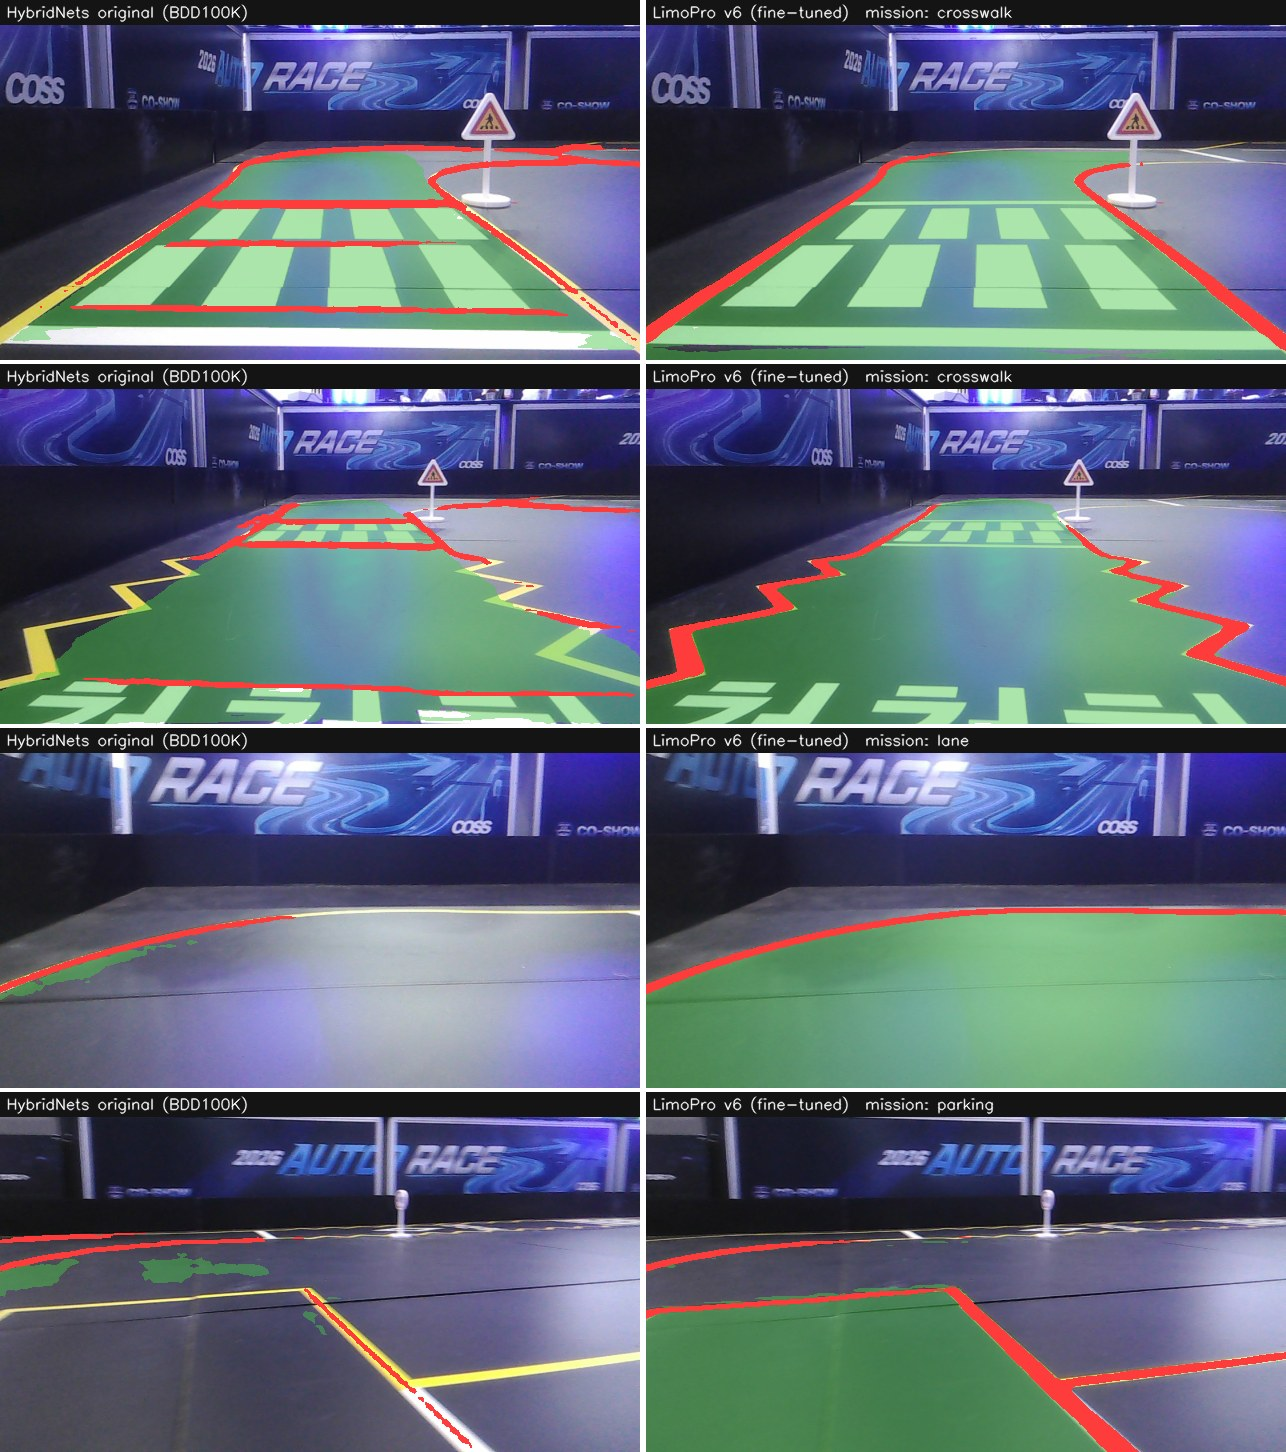
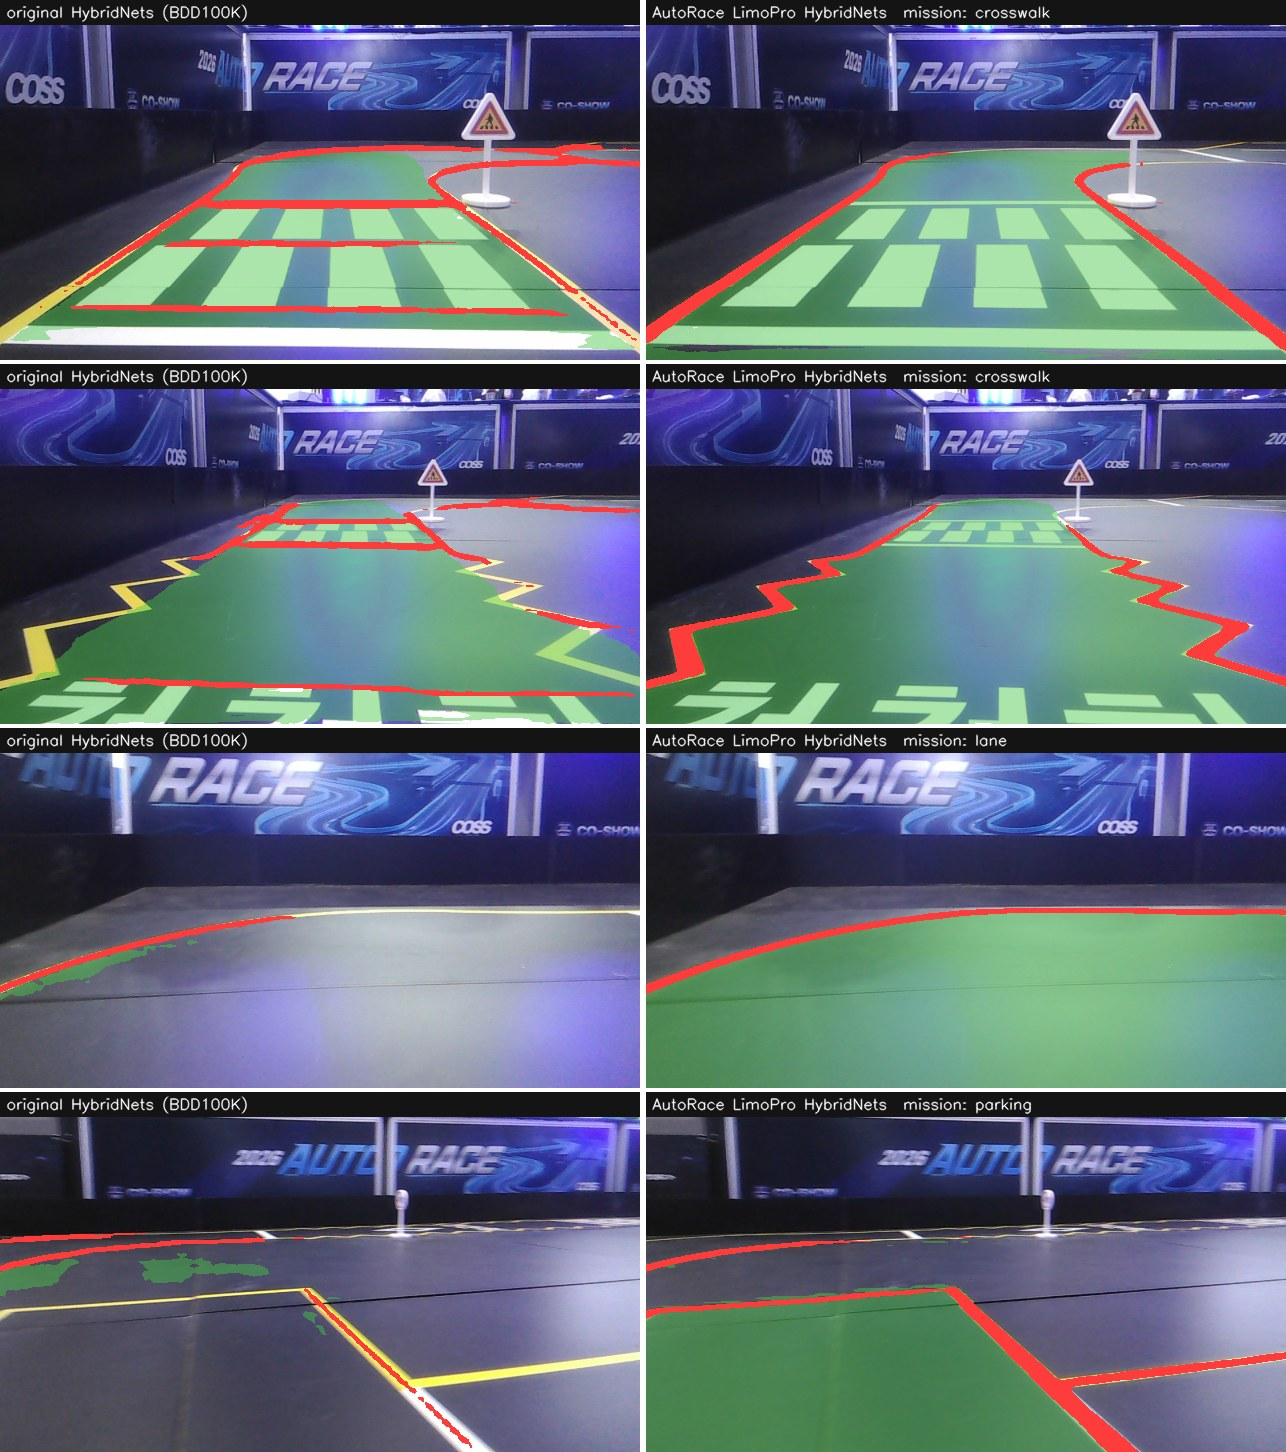
README·문서 정리: 비교 이름 바꾸기, 이모티콘 빼기, 대회장 정리 문서 다시 씀
- 비교 이름: original HybridNets vs AutoRace LimoPro HybridNets (그림 머리글도)
- README 이모티콘 뺌
- docs/VENUE_1118_STATUS.md: DA 주행 검사, 대회장 자동 라벨, v6 학습 결과 중심으로 다시 씀
- tools/mt_v4_data: 설명 문구 정리

diff --git a/tools/mt_v4_data/readme_media.py b/tools/mt_v4_data/readme_media.py
@@ -11,11 +11,11 @@
   task_da.jpg       주행가능영역(DA)만 2x2
   task_lane.jpg     차선 + 흰 가로선(정지선)만 2x2
   orig_vs_v6.gif    (--orig-weights 를 주면) 원본 HybridNets(BDD100K 공개 가중치) 와 v6 나란히, 전 코스. DA·차선만 비교
-  v5_vs_v6.gif      (--cmp-weights 를 주면) 신호등 진입 구간에서 v5 와 v6 나란히: v5 는 DA·차선이 꺼짐
+  compare_vs_v6.gif (--cmp-weights 를 주면) 신호등 진입 구간에서 다른 모델과 v6 나란히
 프레임 폴더: bag_fork_frames.py --all 로 뽑은 <frames-root>/<bag>/frames/*.jpg + frames.csv (name, t, mission_id)
 사용:
   <번들>/.venv/bin/python -I tools/mt_v4_data/readme_media.py --bundle <LimoPro_mt_v4> --weights <v6 best.pt> \
-      --frames-root <label_work/fullbag1118> --out docs/images/readme [--cmp-weights <v5 best.pt>]
+      --frames-root <label_work/fullbag1118> --out docs/images/readme [--orig-weights <hybridnets.pth>]
 """
 import argparse, csv, os, shutil, subprocess, sys, tempfile
 
@@ -177,16 +177,16 @@ lane_mids += [x for x in ["0", "5", "6", "7"] if x not in lane_mids][:4 - len(la
 save(grid([draw(r, da=False, det=False, foot=False) for r in pick(lane_mids)], 2), "task_lane.jpg")
 print("미션별 프레임:", {k: (v[0], v[1]["name"]) for k, v in picks.items()}, "| 차선 그림 미션:", lane_mids)
 
-# 4. v5 vs v6 (신호등 진입 구간): v5 는 이 bag 62.3 s 부터 DA·차선이 꺼짐
+# 4. 다른 모델 vs v6 (신호등 진입 구간)
 if a.cmp_weights:
     sel = [i for i, row in enumerate(rc) if 58.0 <= float(row["t"]) - t0c <= 69.0][::4]
     old = load(a.cmp_weights); O = infer(old, Rc, [rc[i] for i in sel]); seq = []
     for j, i in enumerate(sel):
         t = float(rc[i]["t"]) - t0c
-        l = draw(O[j], head=f"v5 (withdrawn)  t={t:4.1f}s  DA {O[j][1][180:].mean():.2f}", foot=False)
+        l = draw(O[j], head=f"compare  t={t:4.1f}s  DA {O[j][1][180:].mean():.2f}", foot=False)
         r = draw(C[i], head=f"{a.tag}  t={t:4.1f}s  DA {C[i][1][180:].mean():.2f}", foot=False)
         seq.append(np.hstack([l, np.full((360, 6, 3), 255, np.uint8), r]))
-    gif(seq, os.path.join(OUT, "v5_vs_v6.gif"), 8, 760)
+    gif(seq, os.path.join(OUT, "compare_vs_v6.gif"), 8, 760)
 
 # 5. 원본 HybridNets vs v6 (전 코스, DA·차선만). 원본은 BDD100K(실제 도로)용: road(도로 전체) / lane 두 클래스
 if a.orig_weights:
@@ -203,11 +203,11 @@ if a.orig_weights:
             with torch.no_grad():
                 seg = orig(x)[-1].argmax(1)[:, tm.PAD:-tm.PAD].cpu().numpy()   # 0 배경, 1 도로, 2 차선
             for q, (row, r) in enumerate(ch):
-                l = draw((r[0], seg[q] == 1, seg[q] == 2, None, []), sl=False, det=False, head="HybridNets original (BDD100K)", foot=False)
+                l = draw((r[0], seg[q] == 1, seg[q] == 2, None, []), sl=False, det=False, head="original HybridNets (BDD100K)", foot=False)
                 rr = draw(r, sl=False, det=False, head=head(row), foot=False)
                 out.append(np.hstack([l, np.full((360, 6, 3), 255, np.uint8), rr]))
         return out
-    seq = orig_pair([(rc[i], C[i]) for i in range(0, len(rc), 16)], lambda row: f"LimoPro {a.tag}  t={float(row['t']) - t0c:4.1f}s  mission: {mis(row)}")
+    seq = orig_pair([(rc[i], C[i]) for i in range(0, len(rc), 16)], lambda row: f"AutoRace LimoPro HybridNets  t={float(row['t']) - t0c:4.1f}s  mission: {mis(row)}")
     gif(seq, os.path.join(OUT, "orig_vs_v6.gif"), 8, 760)
-    still = orig_pair([(BYNAME[n][1], BYNAME[n][2]) for n in a.orig_frames], lambda row: f"LimoPro {a.tag} (fine-tuned)  mission: {mis(row)}")
+    still = orig_pair([(BYNAME[n][1], BYNAME[n][2]) for n in a.orig_frames], lambda row: f"AutoRace LimoPro HybridNets  mission: {mis(row)}")
     save(grid(still, 1), "orig_vs_v6.jpg")

diff --git a/docs/VENUE_1118_STATUS.md b/docs/VENUE_1118_STATUS.md
@@ -1,13 +1,11 @@
-# 11-18 대회장 정리: v5 DA 꺼짐 사고, v6 재학습, 분류기 v0.3, 학습 속도(`--compile`)
+# 11-18 대회장 정리: DA 주행 검사, 대회장 자동 라벨, v6 학습, 분류기 v0.3, 학습 속도(`--compile`)
 
-작성 2026-11-18 18:00. v6 학습은 아직 진행 중입니다(아래 5절). 끝나면 DA 주행 검사를 통과할 때만 `multitask-v6` 로 릴리즈합니다.
+작성 2026-11-18, 정리 2026-11-19.
 
 ## 요약
-- **차량에서 신호등 진입 직전부터 DA·차선이 사라지던 원인은 v5 모델**이었습니다. fp16 엔진 문제가 아니고, v5 는 PyTorch fp32 에서도 똑같이 꺼집니다. **차량은 v4 엔진으로 되돌리면 됩니다.**
-- v5 가 꺼지는 이유: v5 에 새로 넣은 rawcam 차선 라벨 중 **23 장이 도로가 보이는 주행 장면인데 빈 DA 정답**이었습니다. 검수 앱의 'da·ll 비움'이 "학습 제외"가 아니라 "빈 정답으로 학습"이었기 때문입니다. ×3 으로 넣어서 "대회장 배경(운영진 책상·배너·신호등)이 보이면 도로 없음"을 배웠습니다.
-- `multitask-v5` 릴리즈는 **🛑 사용 금지**로 표시했습니다.
-- 재발 방지: 릴리즈 전에 **대회장 bag 전체로 DA 주행 검사**(`tools/mt_v4_data/bag_da_gate.py`)를 합니다.
-- v6: v4 에서 시작, 빈 DA 를 빼고, 11-18 bag **자동 라벨** 996 장을 더해 학습 중입니다.
+- 릴리즈 전에 **대회장 bag 전체로 DA 주행 검사**(`tools/mt_v4_data/bag_da_gate.py`)를 하도록 했습니다. 시험셋 점수만으로는 대회장에서 DA 가 끝까지 유지되는지 알 수 없기 때문입니다.
+- 11-18 대회장 bag 을 **자동 라벨**해서 996 장을 만들었습니다(`tools/mt_v4_data/auto_label_v4.py`).
+- `multitask-v6`: v4 에서 이어 학습하고 위 자동 라벨을 더했습니다. 11-18 bag 11 개 모두 DA 주행 검사를 통과해 릴리즈했습니다.
 - 갈림길 분류기 `fork-sign-v0.3` (사전 릴리즈): 대회장 A·B 를 학습했고, 원 바깥을 항상 가립니다.
 
 ## 1. 갈림길 분류기 fork-sign-v0.3
@@ -17,28 +15,7 @@
 - 좌우 뒤집기는 쓰지 않습니다(글자도 뒤집힘).
 - 대회장 '없음' 오탐: v0.2 35% → v0.3 4%. 지름 45px(1280 기준) 이상에서 반대 글자 0. 약점은 45px 미만의 작은 B 입니다. 로봇에서는 45px 이상일 때만 판단을 쌓고 여러 프레임 투표로 정하기를 권합니다(팀 레포 미반영).
 
-## 2. multitask-v5 사고
-**증상** (팀원 보고): 11-18 13시 대회장, 라바콘이 끝나고 약 3초 뒤(신호등 진입 0.3초 전)부터 차선 경로가 "없음"이 되고, 차가 선 뒤에도 돌아오지 않았습니다. 그 자리까지 간 4번 모두 같았습니다.
-
-**차량에 올라간 모델 확인**: bag 에 기록된 `/ar/lane/sl_mask`(차량 모델 출력)를 v4·v5 출력과 비교했습니다. **v5 와 IoU 0.99**(v4 와는 중앙값 0)입니다. 11-18 13시대 주행 6 개 모두 v5 였습니다.
-
-**DA·LL 이 통째로 꺼진 프레임 수** (화면 아래 절반 DA < 3%, LL < 0.3%, 다른 모델은 도로를 봄):
-
-| bag | v4 | v5 |
-|---|---:|---:|
-| arall_1118_134536 | 0 | 581 (신호등 진입 63.5 s 부터 끝까지) |
-| arall_1118_135201 | 0 | 417 |
-| arall_1118_135742 (학습 안 씀) | 0 | 123 (62.3 s 부터, 최장 8.1 s) |
-| arall_1118_135555 | 0 | 275 |
-| ar4_1118_135356 / 135437 | 0 | 234 / 173 |
-| arall_1117 fullall | 0 | 326 |
-| rawcam_1117 | 35 | 209 |
-
-- fp16 아님: v4 는 fp32·fp16(autocast·순수 half) 모두 꺼짐 0. 내부 값은 최대 약 400 으로 fp16 한계(65504)와 거리가 멉니다. v4 는 밝기 ±5%, 노이즈, JPEG80, 선형 축소에도 신호등 장면 27 장 모두 정상(DA 0.71)입니다.
-- **원인**: `bag_mt_rawcam1117/train` 의 빈 DA 정답 24 장 중 23 장이 신호등 진입·횡단보도·'천천히'·주차 구간의 도로가 보이는 장면입니다(검수 'empty' 23 건). `review_bag_mt.py apply` 는 'empty' 를 **0 마스크로 덮어쓰고**, `train_multitask.py` 는 마스크가 있으면 항상 분할 손실에 넣습니다.
-- v4 데이터(`bag_mt_v1`)의 빈 DA 22 장은 실제로 트랙이 없는 장면(타일 바닥·복도·렌즈 가림)이라 그대로 둡니다.
-
-## 3. 재발 방지: DA 주행 검사 `tools/mt_v4_data/bag_da_gate.py`
+## 2. DA 주행 검사 `tools/mt_v4_data/bag_da_gate.py`
 후보 모델과 지금 차량 모델(기준)을 bag 전체 프레임에 넣고, bag 마다 아래를 봅니다.
 
 | 항목 | 통과 조건 |
@@ -48,13 +25,13 @@
 | ③ 차 앞이 비어 보임 (화면 맨 아래 띠 DA < 20%) | 기준 + 5 프레임 이하 |
 | ④ 흔들림 (이웃 프레임 DA IoU 5% 분위) | 기준 − 0.05 이상 |
 
-- v5 는 11-18 bag 8 개 중 7 개에서 불합격입니다(`v5 vs v4`).
 - 손볼 점: ① 은 차를 들고 있는 장면도 셉니다(v4 도 rawcam 15 프레임). 주행 구간만 세도록 고칠 예정입니다.
 - 사용: `python tools/mt_v4_data/bag_da_gate.py --cand <후보 best.pt> --base <v4 best.pt> --bundle <LimoPro_mt_v4> --stride 2 <bag 프레임 폴더>...` (프레임: `bag_fork_frames.py --all`)
+- 차량에 올라간 모델 버전은 bag 에 기록된 `/ar/lane/sl_mask`(차량 모델 출력)를 후보 모델 출력과 비교해 확인할 수 있습니다(`tools/mt_v4_data/which_model_in_bag.py`).
 
-남은 일: 검수 앱(`review_bag_mt.py`) 버튼을 뜻이 분명하게 바꾸기("도로 없음(빈 정답으로 학습)" / "분할 학습 제외"), 모델이 도로를 보는데 '도로 없음'을 누르면 경고. **아직 안 했습니다.**
+남은 일: 검수 앱(`review_bag_mt.py`)의 'da·ll 비움' 버튼은 "학습 제외"가 아니라 "빈 정답으로 학습"입니다. 버튼을 뜻이 분명하게 바꾸고("도로 없음(빈 정답으로 학습)" / "분할 학습 제외"), 모델이 도로를 보는데 '도로 없음'을 누르면 경고하도록 할 예정입니다. **아직 안 했습니다.**
 
-## 4. 11-18 bag 자동 라벨 `tools/mt_v4_data/auto_label_v4.py`
+## 3. 11-18 bag 자동 라벨 `tools/mt_v4_data/auto_label_v4.py`
 - **DA·LL = v4 예측 그대로**입니다. v4 가 먼 곳까지 끝까지 칠하기 때문입니다. ego lane(`ego_lane_label.py`: v4 차선에 좌우 직선을 맞추고 그 사이를 채움)은 확인용으로만 씁니다.
 - 주행 중 프레임을 0.25 s 간격으로 고르고, 차가 서 있으면 2 s 에 1 장만 씁니다.
 
@@ -69,19 +46,20 @@
 - 3차선(미션 7) 245 장은 뺐습니다. v4 가 장애물 LIMO 위까지 DA 로 칠하기 때문입니다. → 학습 996 장.
 - 박스: v4 검출 0.5 이상은 정답, 0.2~0.5 는 무시 박스(-2). 정지선은 라벨 없음(학습 안 함).
 
-## 5. v6 학습 (진행 중)
-- 실행: `tools/h100_mt_v4/run_v6.sh` (이 PC: `/home/guest6/Desktop/smoony/autorace2026/competition/LimoPro_mt_v4/run_v6.sh`, tmux `v6`)
-- v5 와 다른 점:
+## 4. v6 학습
+- 실행: `tools/h100_mt_v4/run_v6.sh` (이 PC: `/home/guest6/Desktop/smoony/autorace2026/competition/LimoPro_mt_v4/run_v6.sh`)
+- v4 대비 바뀐 점:
   - 시작 가중치 **v4 best.pt**
-  - rawcam 빈 DA 24 장을 뺌 (192 장 ×3)
+  - 대회장 rawcam 차선 라벨(사람 검수) 192 장 ×3. 빈 DA 정답은 뺐습니다.
   - `bag_mt_venue1118` 996 장 ×1 추가
-  - 나머지는 v5 와 같음: 바닥 반사 증강 0.3, 갈림길 박스 SAM, lr 1e-4, 최대 150 epoch, val loss 12 epoch(0.005) 조기 종료
-- **학습에 안 쓴 bag**: `arall_1118_135742` (신호등까지 감, v5 는 여기서 꺼짐), `ar4_1118_135516` → 릴리즈 전 DA 주행 검사용
-- 17:21 시작, 학습 사진 15,991 장, epoch 당 약 170 s. 18:00 기준 epoch 11 까지 끝났고, val loss 최저 1.376 (epoch 11)입니다. 예상 종료는 20~21시 반입니다.
-- 끝나면: ① DA 주행 검사(11 개 bag), ② v4 와 같은 시험셋 비교, 바닥 반사·신호등 몽타주, ③ 통과하면 `multitask-v6` 릴리즈.
+  - 갈림길 박스 SAM 2.1 (14px 까지), 바닥 반사 증강 `--aug-glare-p 0.3`
+  - lr 1e-4(검출 머리·BiFPN ×10), batch 32, bf16, 최대 150 epoch, val loss 12 epoch(0.005) 조기 종료
+- **학습에 안 쓴 bag**: `arall_1118_135742` (신호등까지 감), `ar4_1118_135516` (주차) → 릴리즈 전 DA 주행 검사용
+- 학습 사진 15,991 장, epoch 당 약 170 s. **epoch 53 에서 멈춤, val loss 최저 epoch 41** 을 올렸습니다(약 2.6 시간).
+- 결과: 11-18 bag 11 개 모두 DA 주행 검사 통과(통째로 꺼짐 0), 같은 test 비교는 [`multitask-v6` 릴리즈 노트](https://github.com/mastic-choi/LimoPro_FOSCAR_Vision/releases/tag/multitask-v6)에 있습니다.
 
-## 6. 학습 속도와 `--compile`
-**지금 측정** (v6 학습 중, H100 PCIe):
+## 5. 학습 속도와 `--compile`
+**측정** (v6 학습 중, H100 PCIe):
 - GPU 사용률(0.5 s 간격 10 번)은 49~100%, 평균 약 75%입니다. 전력 230 W / 350 W.
 - 데이터 대기 1~1.5% → 데이터 로딩 병목이 아닙니다.
 - 학습 속도 96.6 장/s (v4 93 장/s).
@@ -98,6 +76,7 @@
 | 파일 | 내용 |
 |---|---|
 | `tools/mt_v4_data/bag_da_gate.py` | 릴리즈 전 DA 주행 검사 |
+| `tools/mt_v4_data/which_model_in_bag.py` | bag 의 차량 출력으로 차에 올라간 모델 버전 찾기 |
 | `tools/mt_v4_data/auto_label_v4.py` | 대회장 bag 자동 라벨 (v4 DA, ego lane 확인) |
 | `tools/mt_v4_data/ego_lane_label.py` | 직진 ego lane 맞추기 |
 | `tools/mt_v4_data/bag_fork_frames.py` | bag → 프레임 (구간·전체, 원본 영상 bag 도) |
@@ -108,7 +87,7 @@
 | `scripts/export_fork_cls.py` | 가리기를 ONNX 안에 (OpenCV 4.5.4 dnn 호환) |
 | `scripts/train_multitask.py` | `--aug-glare-p` (바닥 반사 증강) |
 | `scripts/floor_glare.py` | 바닥 반사 증강 (선 옆 차로에 곧은 흰 띠) |
-| `tools/h100_mt_v4/run_v5.sh`, `run_v6.sh` | v5·v6 학습 명령 기록 |
+| `tools/h100_mt_v4/run_v6.sh` | v6 학습 명령 기록 |
 | 그 밖 | `bag_frames.py`(원본 영상 bag), `pseudo_label_mt.py`(`--bag-sign-map`), `real_fork_det_labels.py`(`--min-sign-px`), `fork_real_sam2_track.py`(LETTER·BACK) |
 
 ## 이 PC 의 데이터 위치

diff --git a/README.md b/README.md
@@ -21,9 +21,9 @@ AutoRace 2026 (CO-SHOW) 참가팀 **FOSCAR** · LIMO PRO
 네트워크 하나가 **주행가능영역(내 차로)**, **차선**, **흰 가로선(정지선·횡단보도)**, **검출 12종**을 한 번에 냅니다.
 갈림길 A/B 글자만 작은 분류기([`fork-sign`](docs/FORK_SIGN_CLASSIFIER.md))가 따로 정합니다.
 
-- **One model** 🧩 : 미션 9개(차선, 신호등, 갈림길, 횡단보도, 주차, 과속방지턱, 천천히, 3차선, 라바콘)에 필요한 인식을 한 번의 추론으로 처리합니다.
-- **Venue-tuned** 🏟 : 대회장의 보라·파랑 LED 조명, 바닥 반사, 신호등 뒤 방해 모니터를 증강과 실제 대회장 bag으로 학습했습니다.
-- **Gate-verified** ✅ : 시험셋 점수만으로는 릴리즈하지 않습니다. **대회장 rosbag 전체를 돌려** DA가 한 프레임이라도 통째로 꺼지면 탈락시킵니다.
+- **One model**: 미션 9개(차선, 신호등, 갈림길, 횡단보도, 주차, 과속방지턱, 천천히, 3차선, 라바콘)에 필요한 인식을 한 번의 추론으로 처리합니다.
+- **Venue-tuned**: 대회장의 보라·파랑 LED 조명, 바닥 반사, 신호등 뒤 방해 모니터를 증강과 실제 대회장 bag으로 학습했습니다.
+- **Gate-verified**: 시험셋 점수만으로는 릴리즈하지 않습니다. **대회장 rosbag 전체를 돌려** DA가 한 프레임이라도 통째로 꺼지면 탈락시킵니다.
 
 ## Results
 아래 그림은 **모두 실제 대회장(11-18 CO-SHOW) rosbag 프레임**에 `multitask-v6`를 돌린 결과입니다. 쓴 bag 두 개(`arall_1118_135742`, `ar4_1118_135516`)는 **학습에 쓰지 않았습니다.**
@@ -35,10 +35,10 @@ AutoRace 2026 (CO-SHOW) 참가팀 **FOSCAR** · LIMO PRO
 <tr><td align="center"><sub>대회장 rosbag 전 코스(출발 → 라바콘)와 주차, 약 3배속. 초록 = 주행가능영역, 빨강 = 차선, 주황 = 정지선, 박스 = 검출. 위 줄은 bag 시간과 차량의 미션 상태입니다.</sub></td></tr>
 </table>
 
-### Why fine-tune: original HybridNets vs LimoPro
+### original HybridNets vs AutoRace LimoPro HybridNets
 <table>
 <tr><td><img src="docs/images/readme/orig_vs_v6.gif" width="100%"></td></tr>
-<tr><td align="center"><sub>같은 대회장 bag(학습 안 씀), 전 코스. 왼쪽 = 원본 HybridNets(BDD100K 공개 가중치), 오른쪽 = LimoPro v6. 초록 = 주행가능영역, 빨강 = 차선.</sub></td></tr>
+<tr><td align="center"><sub>같은 대회장 bag(학습 안 씀), 전 코스. 왼쪽 = original HybridNets(BDD100K 공개 가중치), 오른쪽 = AutoRace LimoPro HybridNets(v6). 초록 = 주행가능영역, 빨강 = 차선.</sub></td></tr>
 </table>
 
 <a href="./"><img src="docs/images/readme/orig_vs_v6.jpg" width="100%"></a>

diff --git a/tools/mt_v4_data/README.md b/tools/mt_v4_data/README.md
@@ -18,8 +18,8 @@
 | 파일 | 하는 일 |
 |---|---|
 | `bag_da_gate.py` | 릴리즈 전 DA 주행 검사 (후보 vs 차량 기준 모델, 대회장 bag 전체 프레임) |
-| `gate_timeline_plot.py` | bag 별 v4·v5·v6 DA 비율 타임라인 그림 |
+| `gate_timeline_plot.py` | bag 별 모델 DA 비율 타임라인 그림 |
 | `which_model_in_bag.py` | bag 의 차량 출력 `/ar/lane/sl_mask` 와 후보 모델 정지선을 비교해 차에 올라간 버전 찾기 |
 | `heldout_video.py` | 학습에 안 쓴 bag 확인 영상(mp4) + 16장 몽타주 |
-| `readme_media.py` | 레포 README 대문 그림 (대회장 bag 전 코스 GIF, 미션별 3x3, 작업별 2x2, v5 vs v6 GIF) |
+| `readme_media.py` | 레포 README 대문 그림 (대회장 bag 전 코스 GIF, 미션별 3x3, 작업별 2x2, 원본 HybridNets vs v6) |
 | `auto_label_v4.py` / `ego_lane_label.py` | 대회장 bag 자동 라벨 (v6 학습 데이터) |
